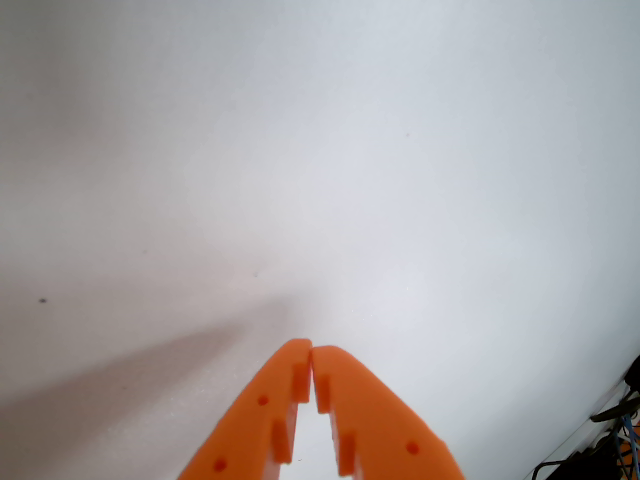
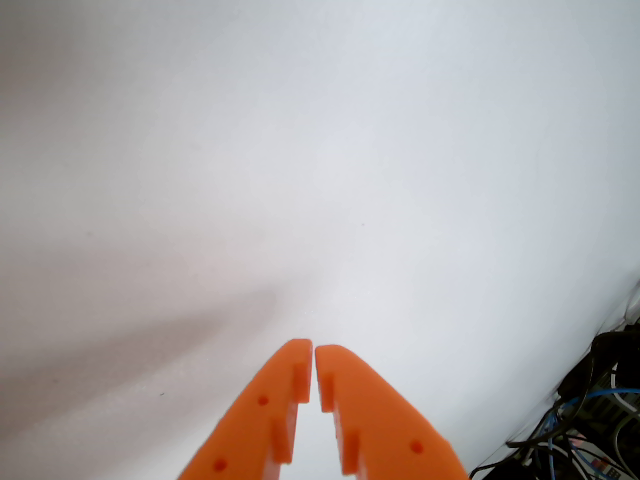
updates

diff --git a/lerobot_so101/data/camera_config.py b/lerobot_so101/data/camera_config.py
@@ -1,0 +1,38 @@
+from lerobot.cameras.opencv.configuration_opencv import OpenCVCameraConfig
+from lerobot.cameras.opencv.camera_opencv import OpenCVCamera
+from lerobot.cameras.configs import ColorMode, Cv2Rotation
+
+# Construct an `OpenCVCameraConfig` with your desired FPS, resolution, color mode, and rotation.
+config = OpenCVCameraConfig(
+    index_or_path=0,
+    fps=30,
+    width=640,
+    height=480,
+    color_mode=ColorMode.RGB,
+    rotation=Cv2Rotation.NO_ROTATION
+)
+
+# Instantiate and connect an `OpenCVCamera`, performing a warm-up read (default).
+with OpenCVCamera(config) as camera:
+
+    # Read a frame synchronously — blocks until hardware delivers a new frame
+    frame = camera.read()
+    print(f"read() call returned frame with shape:", frame.shape)
+
+    # Read a frame asynchronously with a timeout — returns the latest unconsumed frame or waits up to timeout_ms for a new one
+    try:
+        for i in range(10):
+            frame = camera.async_read(timeout_ms=200)
+            print(f"async_read call returned frame {i} with shape:", frame.shape)
+    except TimeoutError as e:
+        print(f"No frame received within timeout: {e}")
+
+    # Instantly return a frame - returns the most recent frame captured by the camera
+    try:
+        initial_frame = camera.read_latest(max_age_ms=1000)
+        for i in range(10):
+            frame = camera.read_latest(max_age_ms=1000)
+            print(f"read_latest call returned frame {i} with shape:", frame.shape)
+            print(f"Was a new frame received by the camera? {not (initial_frame == frame).any()}")
+    except TimeoutError as e:
+        print(f"Frame too old: {e}")

diff --git a/README.md b/README.md
@@ -69,7 +69,7 @@ lerobot-record \
     --dataset.reset_time_s=20
 ```
 
-# Rollout 
+# Rollout 2 cams
 
 ```
 lerobot-rollout \
@@ -79,10 +79,26 @@ lerobot-rollout \
     --inference.rtc.execution_horizon=10 \
     --inference.rtc.max_guidance_weight=10.0 \
     --robot.type=so101_follower \
-    --robot.port=/dev/ttyACM1 \
-    --robot.cameras="{ wrist: {type: opencv, index_or_path: 0, width: 640, height: 480, fps: 30}, front: {type: opencv, index_or_path: 2, width: 640, height: 480, fps: 30}}" \
+    --robot.port=/dev/ttyACM0 \
+    --robot.cameras="{ wrist: {type: opencv, index_or_path: 0, width: 640, height: 480, fps: 30}, front: {type: intelrealsense, serial_number_or_name: 342222071104, width: 640, height: 480, fps: 30}}" \
     --task="pick up the orange" \
     --duration=60
+```
+# Rollout 1 cam
+
+```
+lerobot-rollout \
+    --strategy.type=base \
+    --policy.path=edge-inference/smolvla-so101-pick-orange \
+    --inference.type=rtc \
+    --inference.rtc.execution_horizon=10 \
+    --inference.rtc.max_guidance_weight=10.0 \
+    --robot.type=so101_follower \
+    --robot.port=/dev/ttyACM0 \
+    --robot.cameras="{ wrist: {type: opencv, index_or_path: 0, width: 640, height: 480, fps: 30}}" \
+    --task="pick up the orange" \
+    --duration=60 \
+    
 ```
 # Openpi 
 ```
